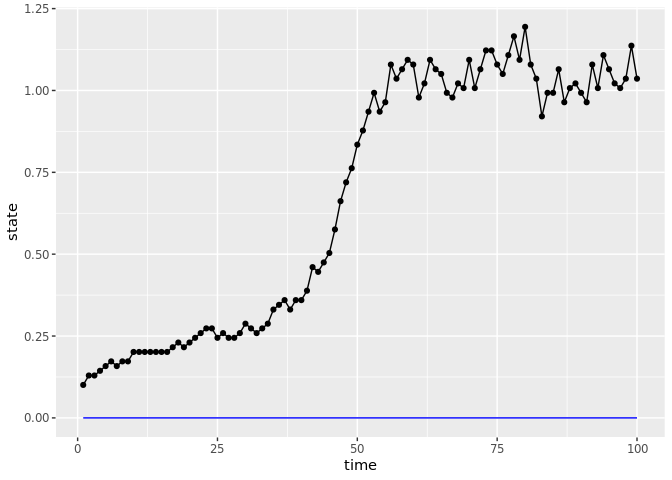
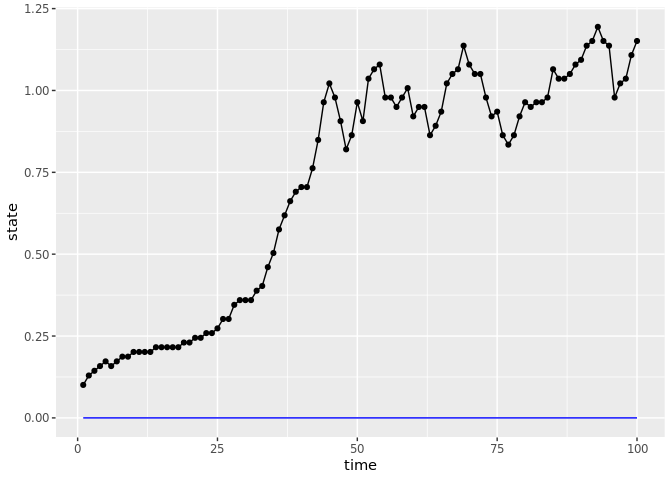
update forecast example

diff --git a/notebook/ghost-fit-forecast.md b/notebook/ghost-fit-forecast.md
@@ -10,60 +10,65 @@ set.seed(123456)
 ```
 
 ``` r
-data <- read_csv("../data/reps.csv.xz") %>% filter(t < 2000)
+source("../R/ghost.R")
 ```
 
-    ## Parsed with column specification:
-    ## cols(
-    ##   reps = col_double(),
-    ##   t = col_double(),
-    ##   x = col_double()
-    ## )
-
 ``` r
-data %>% ggplot(aes(t,x, group=reps)) + geom_line(alpha=0.02)
+data <- vroom::vroom("../data/reps.csv.xz") %>% filter(t < 3000)
 ```
 
-![](ghost-fit-forecast_files/figure-gfm/unnamed-chunk-2-1.png)<!-- -->
-
-Divide this data into several groups based
-on
+    ## Observations: 2,000,000
+    ## Variables: 3
+    ## dbl [3]: reps, t, x
+    ## 
+    ## Call `spec()` for a copy-pastable column specification
+    ## Specify the column types with `col_types` to quiet this message
 
 ``` r
-means <- data %>% group_by(reps) %>% summarise(ave = mean(x)) %>% arrange(ave)
-
-lows <- means %>% dplyr::slice(1:10) %>% pull(reps)
-highs <- means %>% dplyr::slice((n()-9):n()) %>% pull(reps)
-write_csv(data.frame(lows=lows,highs=highs), "../data/extremes.csv.xz")
-
-coding <- function(reps) case_when(
-  reps %in% lows ~ "low",
-  reps %in% highs ~ "high"
-)
-data %>% 
-  mutate(coding = coding(reps)) %>% 
-  na.omit() %>% 
-ggplot(aes(t, x, group=reps, color = coding)) + geom_line(alpha=0.5)
+## get tail cases for comparison
+ex <- data %>% group_by(reps) %>% summarise(ave = mean(x)) %>% arrange(ave)
+lows <- ex %>% dplyr::slice(1:10) %>% pull(reps)
+highs <- ex %>% dplyr::slice((n()-9):n()) %>% pull(reps)
 ```
 
-![](ghost-fit-forecast_files/figure-gfm/unnamed-chunk-3-1.png)<!-- -->
-
 ``` r
-#means %>% ggplot(aes(ave)) + geom_histogram(binwidth = 0.02)
+library(stats)
+x <- data %>% filter(reps == lows[[6]], t < 2000) %>% pull(x) %>% as.ts() 
+fit <- arima(x)
+y <- predict(fit, n.ahead = 1000) %>% as.data.frame()
+y <- bind_rows(data.frame(pred = x, se = 0), y)
 ```
 
-## highs
+    ## Warning in bind_rows_(x, .id): Vectorizing 'ts' elements may not preserve
+    ## their attributes
+    
+    ## Warning in bind_rows_(x, .id): Vectorizing 'ts' elements may not preserve
+    ## their attributes
+    
+    ## Warning in bind_rows_(x, .id): Vectorizing 'ts' elements may not preserve
+    ## their attributes
 
 ``` r
-wide <- data %>% 
-  filter(reps %in% highs) %>%
-  spread(reps, x) %>%
-  select(-t) %>% 
-  as.matrix()
+arima_forecast <- data %>% filter(reps == lows[[6]]) %>% select(t,x) %>% bind_cols(y)
+```
+
+``` r
+train <- arima_forecast %>% filter(t < 2000) 
+test <- arima_forecast %>% filter(t > 2000) 
+train %>%
+  ggplot(aes(t)) + 
+  geom_line(aes(y=x)) +
+  geom_line(aes(y=pred), lwd = 1, lty = 3, col = "red", data = test) + 
+  geom_ribbon(aes(y=pred, ymin=pred-se, ymax=pred+se), alpha = 0.4, fill = "red", data = test)  + 
+  geom_line(aes(y=x), data = test, lty = 2, col="blue") +
+  xlim(0,3000) + ylim(0, 1.6)+ ylab("x") + theme_minimal()
+```
+
+![](ghost-fit-forecast_files/figure-gfm/arima_figure-1.png)<!-- -->
+
+``` r
+wide <- select(train, x) %>% as.matrix() 
 n <- dim(wide)[1]
-```
-
-``` r
 x_t1 <- wide[-1,]
 x_t <- wide[-n,] 
 ```
@@ -97,7 +102,7 @@ system.time({
 ```
 
     ##    user  system elapsed 
-    ##  47.058   4.251  36.845
+    ##  45.163   2.934  33.471
 
 ``` r
 summary(draws)
@@ -113,18 +118,18 @@ summary(draws)
     ##    plus standard error of the mean:
     ## 
     ##           Mean             SD       Naive SE Time-series SE 
-    ##      2.198e-02      1.591e-04      2.515e-06      2.857e-06 
+    ##      2.390e-02      2.824e-04      4.466e-06      4.680e-06 
     ## 
     ## 2. Quantiles for each variable:
     ## 
     ##    2.5%     25%     50%     75%   97.5% 
-    ## 0.02167 0.02187 0.02198 0.02209 0.02230
+    ## 0.02336 0.02371 0.02389 0.02408 0.02446
 
 ``` r
 bayesplot::mcmc_trace(draws)
 ```
 
-![](ghost-fit-forecast_files/figure-gfm/unnamed-chunk-9-1.png)<!-- -->
+![](ghost-fit-forecast_files/figure-gfm/unnamed-chunk-8-1.png)<!-- -->
 
 ``` r
 samples <-  
@@ -153,144 +158,4 @@ samples %>% ggplot() +
   facet_wrap(~variable, scales = "free")
 ```
 
-![](ghost-fit-forecast_files/figure-gfm/unnamed-chunk-13-1.png)<!-- -->
-
-``` r
-write_csv(samples, "../data/posterior_highs.csv.xz")
-```
-
------
-
-## lows
-
-``` r
-wide <- data %>% 
-  filter(reps %in% lows) %>%
-  spread(reps, x) %>%
-  select(-t) %>% 
-  as.matrix()
-n <- dim(wide)[1]
-```
-
-``` r
-x_t1 <- wide[-1,]
-x_t <- wide[-n,] 
-```
-
-``` r
-a <- uniform(0, 1)
-mean <- x_t + r * x_t * (1 - x_t / K) - a * x_t ^ Q / (x_t ^ Q + H ^ Q)
-distribution(x_t1) <- normal(mean, sigma * x_t)
-m <- model(a)
-```
-
-``` r
-system.time({
-  draws2 <- mcmc(m, n_samples = 1000, warmup = 3000, chains = 4, verbose = FALSE)
-})
-```
-
-    ##    user  system elapsed 
-    ##  48.658   4.111  37.198
-
-``` r
-bayesplot::mcmc_trace(draws2)
-```
-
-![](ghost-fit-forecast_files/figure-gfm/unnamed-chunk-18-1.png)<!-- -->
-
-``` r
-samples2 <-  
-  map_dfr(draws2, 
-          function(x) data.frame(x, t = 1:dim(x)[1]), 
-          .id = "chain") %>% 
-  gather(variable, value, -t, -chain)
-
-samples2 %>% ggplot() + 
-  geom_histogram(aes(value), bins = 30)  +
-  geom_vline(data = true, aes(xintercept = value), col = "red", lwd = 1) + 
-  facet_wrap(~variable, scales = "free")
-```
-
-![](ghost-fit-forecast_files/figure-gfm/unnamed-chunk-19-1.png)<!-- -->
-
-``` r
-write_csv(samples2, "../data/posterior_lows.csv.xz")
-```
-
-## Full ensemble
-
-``` r
-wide <- data %>% 
-  spread(reps, x) %>%
-  select(-t) %>% 
-  as.matrix()
-n <- dim(wide)[1]
-```
-
-``` r
-x_t1 <- wide[-1,]
-x_t <- wide[-n,] 
-```
-
-``` r
-a <- uniform(0, 1)
-mean <- x_t + r * x_t * (1 - x_t / K) - a * x_t ^ Q / (x_t ^ Q + H ^ Q)
-distribution(x_t1) <- normal(mean, sigma * x_t)
-m <- model(a)
-```
-
-``` r
-system.time({
-  draws3 <- mcmc(m, n_samples = 1000, warmup = 3000, chains = 6, verbose = FALSE)
-})
-```
-
-    ##    user  system elapsed 
-    ## 227.450 140.962 355.717
-
-``` r
-bayesplot::mcmc_trace(draws3)
-```
-
-![](ghost-fit-forecast_files/figure-gfm/unnamed-chunk-24-1.png)<!-- -->
-
-``` r
-samples3 <-  
-  map_dfr(draws3, 
-          function(x) data.frame(x, t = 1:dim(x)[1]), 
-          .id = "chain") %>% 
-  gather(variable, value, -t, -chain)
-
-samples3 %>% ggplot() + 
-  geom_histogram(aes(value), bins = 30)  +
-  geom_vline(data = true, aes(xintercept = value), col = "red", lwd = 1) + 
-  facet_wrap(~variable, scales = "free")
-```
-
-![](ghost-fit-forecast_files/figure-gfm/unnamed-chunk-25-1.png)<!-- -->
-
-``` r
-write_csv(samples3, "../data/posterior_ensemble.csv.xz")
-```
-
-``` r
-p <- list(r = .05, K = 2, Q = 5, H = .38, sigma = .02, a=0.023, N = 4e3, x0 = 0.2, N = 1e4)
-source("../R/ghost.R")
-p$a <- 0.021
-tf <- theory(p) %>% mutate(a = 0.021)
-
-p$a <- 0.023
-tf <- theory(p) %>% mutate(a = 0.023) %>% bind_rows(tf)
-
-p$a <- 0.024
-tf <- theory(p) %>% mutate(a = 0.024) %>% bind_rows(tf)
-
-tf <- tf %>% mutate(a = as.factor(a))
- 
-tf %>%
-  ggplot(aes(x, potential, col=a)) +
-  geom_line(lwd=1)
-```
-
-![](ghost-fit-forecast_files/figure-gfm/unnamed-chunk-26-1.png)<!-- -->
+![](ghost-fit-forecast_files/figure-gfm/unnamed-chunk-12-1.png)<!-- -->
